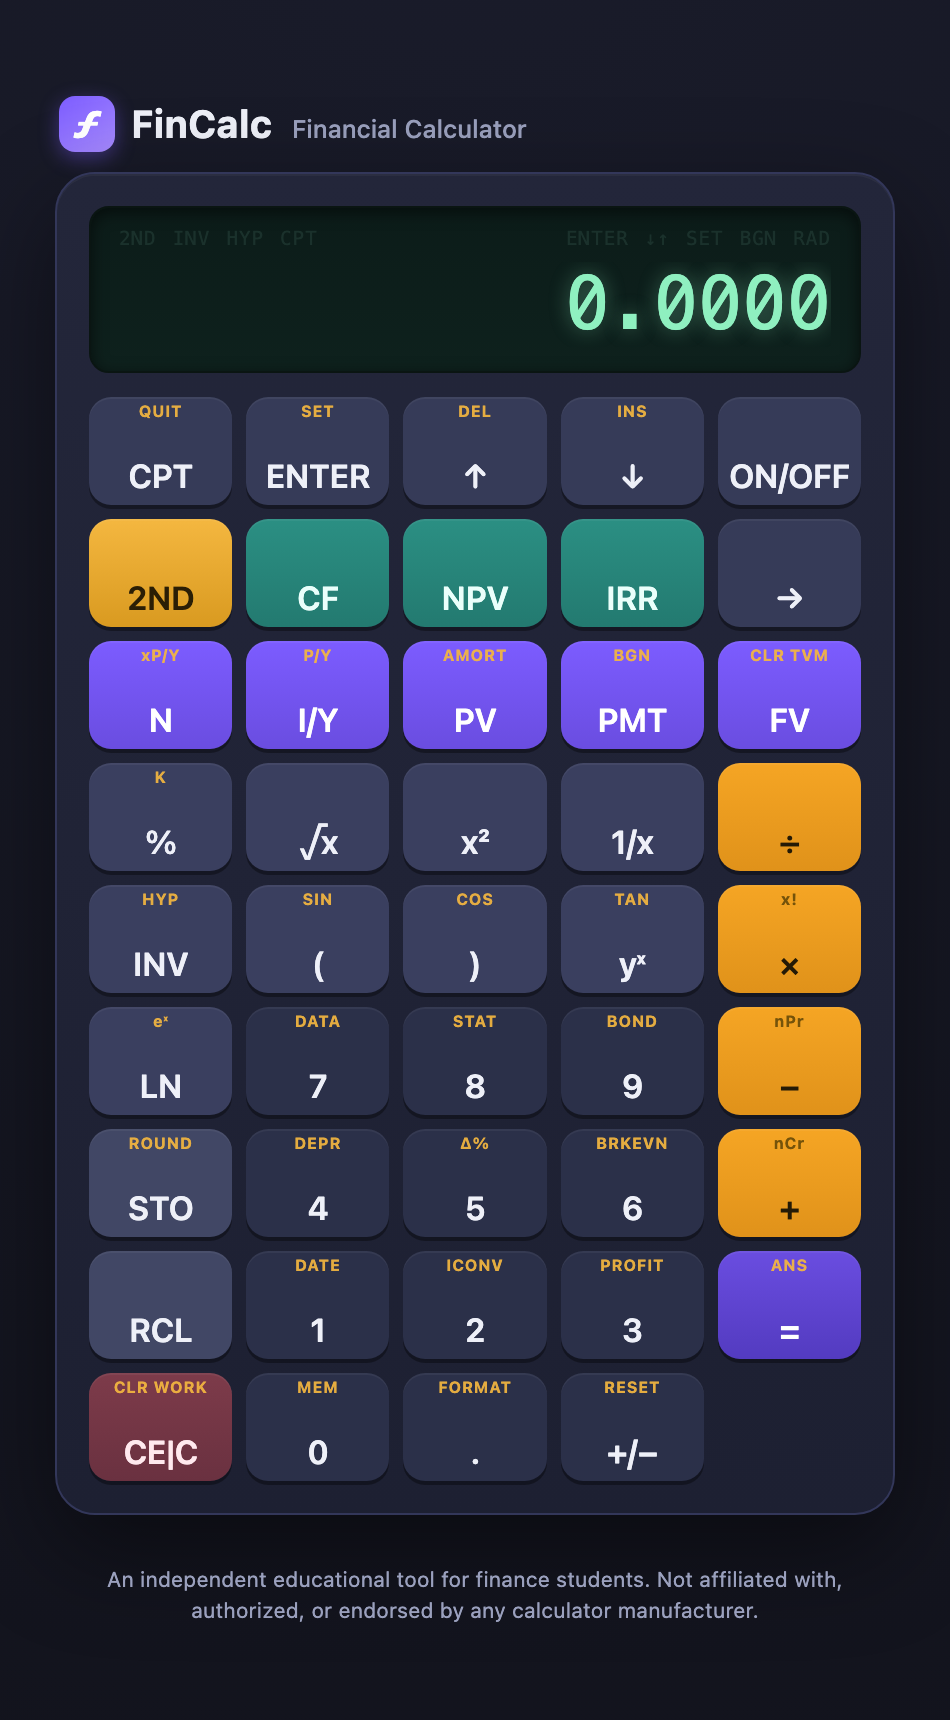
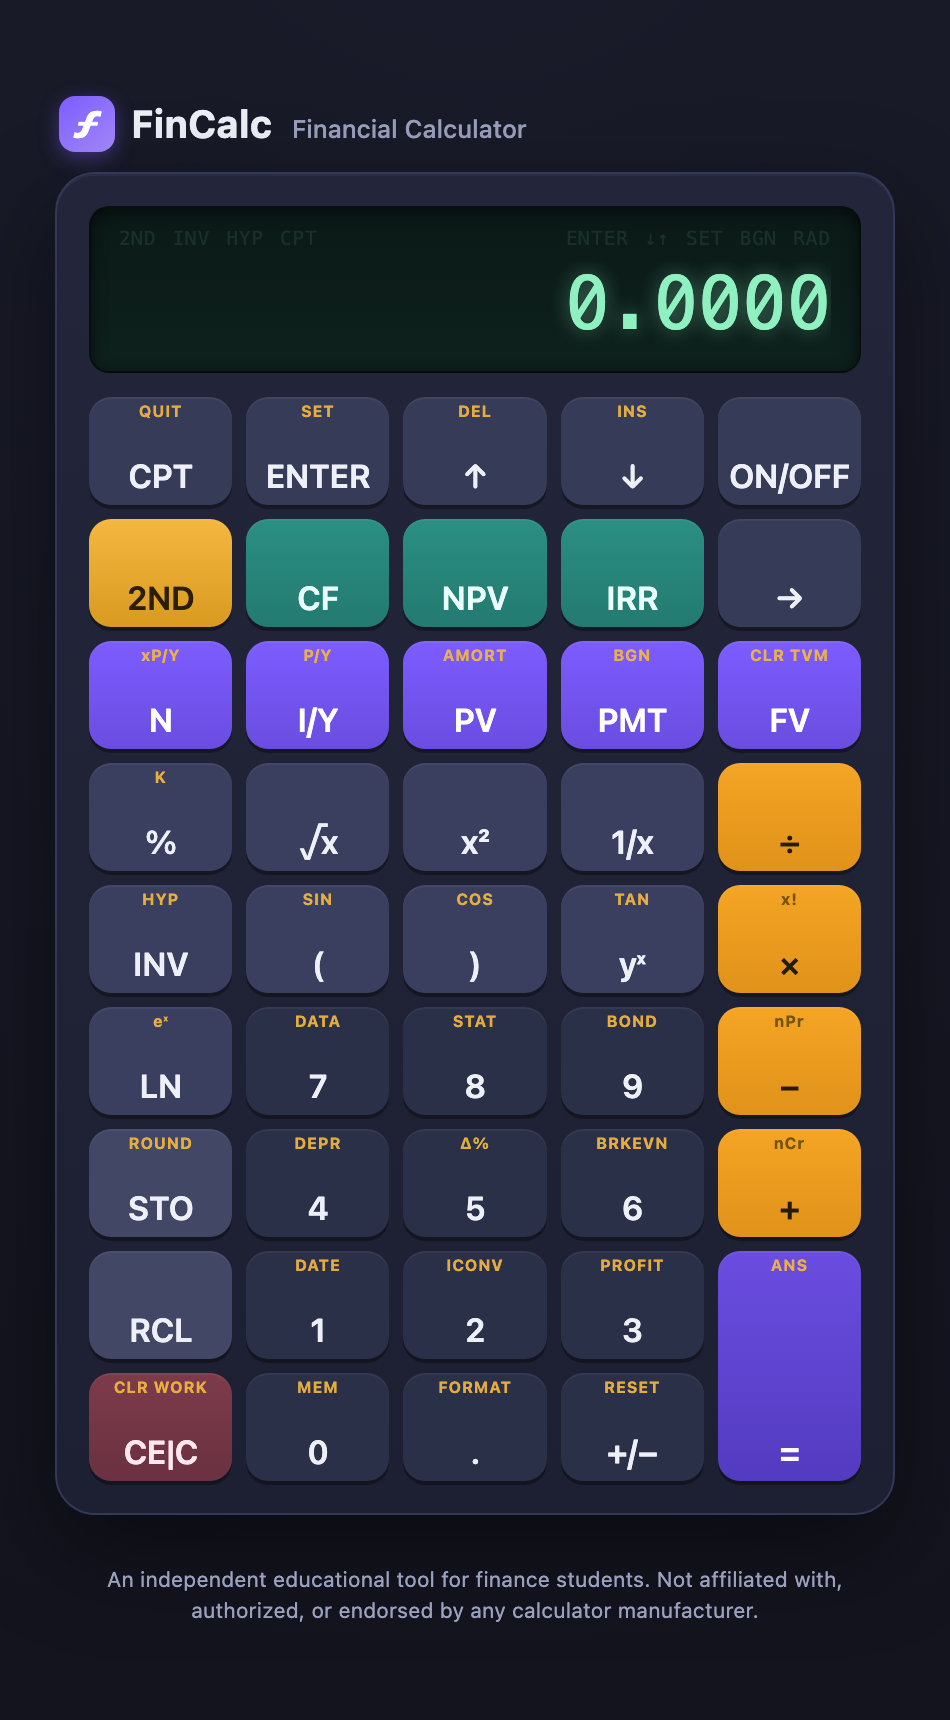
Built site for gh-pages

Changed region(s): [[0.7326, 0.7703, 0.9158, 0.8628]]

diff --git a/teaching.html b/teaching.html
@@ -333,7 +333,7 @@ ul.task-list li input[type="checkbox"] {
 <div class="book-blurb">
 <p><a href="https://imrenhe.github.io/ba-ii-plus-emu/" target="_blank" rel="noopener"><strong>Open the calculator →</strong></a></p>
 <p>A browser-based emulator of the TI BA II Plus, the financial calculator students use throughout my courses and on the exam. It runs on any phone, tablet, or laptop — no purchase required — so students can practice the time value of money keystrokes anywhere, exactly as they’d press them on the real device.</p>
-<p>It also installs like a native app: on a phone or tablet, open the link in your browser and choose <strong>Add to Home Screen</strong> (Share menu on iOS Safari, the menu on Android Chrome). FinCalc then launches full-screen from its own icon — no address bar, no internet connection needed — so it behaves just like a dedicated calculator app on your device.</p>
+<p>It also installs like a native app: on a phone or tablet, open the link in your browser and choose <strong>Add to Home Screen</strong> (Share menu on iOS Safari, the menu on Android Chrome). FinCalc then launches full-screen from its own icon — no address bar, no distractions — so it behaves just like a dedicated calculator app on your device.</p>
 </div>
 <p><a href="https://imrenhe.github.io/ba-ii-plus-emu/" target="_blank" rel="noopener" class="book-cover-link"><img src="images/fincalc.png" alt="FinCalc TI BA II Plus emulator" class="book-cover"></a></p>
 </div>